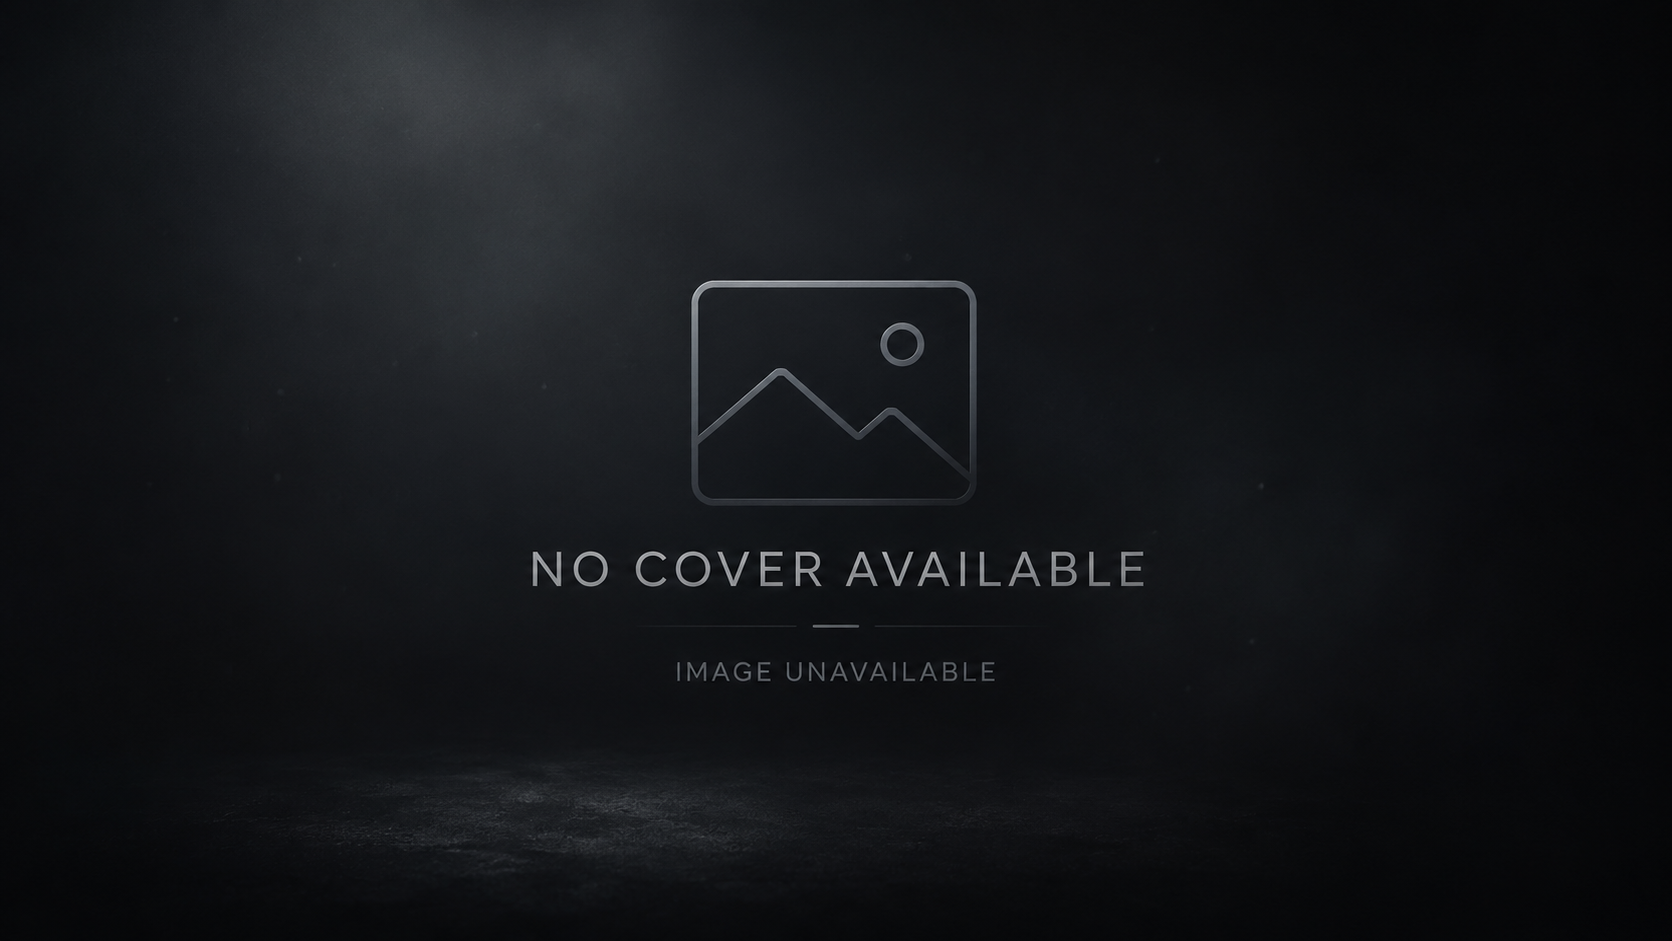
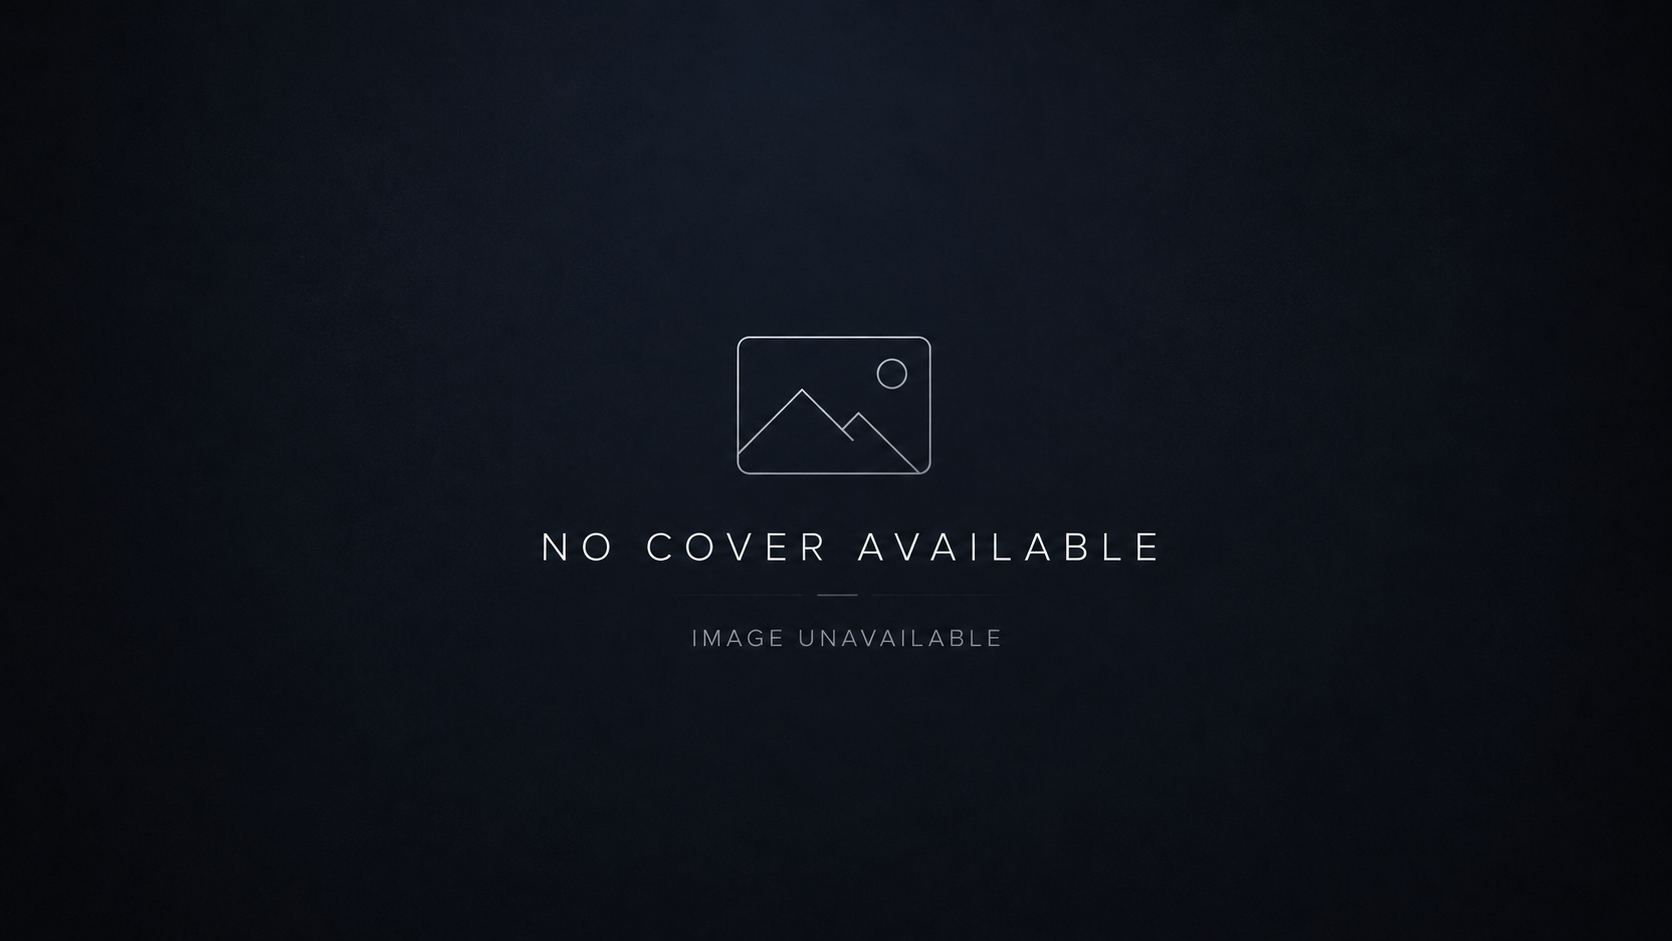
Some updates with the playlists page

diff --git a/frontend/src/app/playlists/features/playlists-entry/playlists-entry.me.ts b/frontend/src/app/playlists/features/playlists-entry/playlists-entry.me.ts
@@ -1,4 +1,12 @@
-import { Component, inject, input, InputSignal, ResourceRef } from '@angular/core';
+import {
+  Component,
+  computed,
+  inject,
+  input,
+  InputSignal,
+  ResourceRef,
+  Signal,
+} from '@angular/core';
 import {
   ImagesModel,
   MediaType,
@@ -10,25 +18,29 @@ import { MediaMovieService } from '@shared/services/media/media-movie.service';
 import { MediaTvSeriesService } from '@shared/services/media/media-tv-series-series.service';
 import { first, forkJoin, map, Observable } from 'rxjs';
 import { rxResource } from '@angular/core/rxjs-interop';
+import { NgOptimizedImage } from '@angular/common';
+import { environment } from '@environments/environment';
 
-type PlaylistItemWithImages = OfflinePlaylistContent & {
+type PlaylistItemWithImagesAndDetails = OfflinePlaylistContent & {
   images: ImagesModel;
 };
 
 @Component({
   selector: 'me-playlists-entry',
-  imports: [],
+  imports: [NgOptimizedImage],
   templateUrl: './playlists-entry.me.html',
   styleUrl: './playlists-entry.me.css',
 })
 export class PlaylistsEntryMe {
-  public readonly data: InputSignal<OfflinePlaylist> = input.required();
+  private readonly mediaMovieService: MediaMovieService = inject(MediaMovieService);
+  private readonly mediaTvSeriesService: MediaTvSeriesService = inject(MediaTvSeriesService);
 
-  protected readonly images: ResourceRef<PlaylistItemWithImages[]> = rxResource({
+  protected readonly images: ResourceRef<PlaylistItemWithImagesAndDetails[]> = rxResource({
     defaultValue: [],
-    params: (): OfflinePlaylistContent[] => this.data().items,
-    stream: (data): Observable<PlaylistItemWithImages[]> => {
+    params: (): OfflinePlaylistContent[] => this.playlist().items,
+    stream: (data): Observable<PlaylistItemWithImagesAndDetails[]> => {
       const requests$ = data.params
+        .slice(0, 4) // Limit to 4 items.
         .map((item) => {
           const trackId: number = parseInt(item.trackId, 10);
           const mediaType: SearchableMediaType = item.mediaType as SearchableMediaType;
@@ -40,21 +52,90 @@ export class PlaylistsEntryMe {
           return this.getMediaImages(trackId, mediaType).pipe(
             first(),
             map(
-              (images): PlaylistItemWithImages => ({
+              (images): PlaylistItemWithImagesAndDetails => ({
                 ...item,
                 images: images,
               }),
             ),
           );
         })
-        .filter((request): request is Observable<PlaylistItemWithImages> => request !== undefined);
+        .filter(
+          (request): request is Observable<PlaylistItemWithImagesAndDetails> =>
+            request !== undefined,
+        );
 
       return forkJoin(requests$);
     },
   });
+  protected readonly singleImage: Signal<string> = computed(() => {
+    return (
+      `${environment.tmdb.imageBaseUrl}original${this.images.value()?.[0]?.images?.posters?.[0]?.file_path}` ||
+      '/images/placeholder.png'
+    );
+  });
+  protected readonly fourImages: Signal<string[]> = computed(() => {
+    const posters: string[] = this.images.value()?.map((item) => {
+      if (item.images.posters.length > 0) {
+        return `${environment.tmdb.imageBaseUrl}original${item.images.posters[0].file_path}`;
+      }
+      return '/images/placeholder.png';
+    });
 
-  private readonly mediaMovieService: MediaMovieService = inject(MediaMovieService);
-  private readonly mediaTvSeriesService: MediaTvSeriesService = inject(MediaTvSeriesService);
+    // Ensure we always return an array of 4 images, filling in placeholders as needed.
+    const filledPosters: string[] = posters ? [...posters] : [];
+    while (filledPosters.length < 4) {
+      filledPosters.push('/images/placeholder.png');
+    }
+
+    return filledPosters.slice(0, 4);
+  });
+  protected readonly lastModificationLabel: Signal<string> = computed(() => {
+    const timestamp = this.playlist().lastEditTimestamp;
+    const parsedTime = Date.parse(timestamp);
+
+    // Fallback in case the timestamp is invalid or missing
+    if (isNaN(parsedTime)) {
+      return 'Unknown';
+    }
+
+    const editDate = new Date(parsedTime);
+    const today = new Date();
+
+    editDate.setHours(0, 0, 0, 0);
+    today.setHours(0, 0, 0, 0);
+
+    const diffInMs = today.getTime() - editDate.getTime();
+    const diffInDays = Math.round(diffInMs / (1000 * 60 * 60 * 24));
+
+    if (diffInDays === 0) {
+      return 'Today';
+    }
+
+    if (diffInDays === 1) {
+      return 'Yesterday';
+    }
+
+    if (diffInDays > 1 && diffInDays <= 5) {
+      return `${diffInDays} Days Ago`;
+    }
+
+    return 'Long time ago';
+  });
+  protected readonly itemsCountLabel: Signal<string> = computed(() => {
+    const count: number = this.playlist().items.length;
+
+    if (count === 0) {
+      return 'Empty';
+    }
+
+    if (count > 100) {
+      return '100+ Items';
+    }
+
+    return `${count} Item${count > 1 ? 's' : ''}`;
+  });
+
+  public readonly playlist: InputSignal<OfflinePlaylist> = input.required();
 
   private getMediaImages(trackId: number, mediaType: SearchableMediaType): Observable<ImagesModel> {
     switch (mediaType) {

diff --git a/frontend/src/app/playlists/features/playlists-entry/playlists-entry.me.html b/frontend/src/app/playlists/features/playlists-entry/playlists-entry.me.html
@@ -1,10 +1,38 @@
-<div class="playlists-entry">
-  <div class="playlists-entry__images">
-
+<div class="playlists-entry w-full h-full">
+  <div
+    class="playlists-entry__images aspect-square rounded-lg overflow-hidden border-2 border-card brightness-90">
+    @let imagesToUse = images.value();
+    @if (imagesToUse.length === 0) {
+      <div class="playlist-entry__image w-full h-full relative">
+        <img
+          ngSrc="/images/placeholder-empty-playlist.png" class="object-cover" alt="Cover Image"
+          loading="lazy"
+          fill>
+      </div>
+    } @else if (imagesToUse.length >= 1 && imagesToUse.length <= 3) {
+      <div class="playlist-entry__image w-full h-full relative">
+        <img [ngSrc]="singleImage()" class="object-cover" alt="Cover Image" loading="lazy" fill>
+      </div>
+    } @else {
+      <div class="playlist-entry__images-grid grid grid-cols-2 grid-rows-2 w-full h-full">
+        @for (image of fourImages(); track image) {
+          <div class="playlist-entry__image w-full h-full relative">
+            <img [ngSrc]="image" class="object-cover" alt="Cover Image" loading="lazy" fill>
+          </div>
+        }
+      </div>
+    }
   </div>
-  <div class="playlists-entry__info">
-    @let playlist = data();
-    <h2 class="font-bold">{{ playlist.name }}</h2>
+  <div class="playlists-entry__info flex flex-col gap-4">
 
+    <div class="playlists-entry__info__details">
+      <h2 class="font-bold text-lg">{{ playlist().name }}</h2>
+      <div
+        class="playlists-entry__info__details__meta flex flex-rot gap-1 items-center text-sm text-accent-foreground">
+        <span class="text-amber-300 text-xs">{{ itemsCountLabel() }} </span>
+        <span class="shrink-0 font-thin">&middot;</span>
+        <span class="font-thin text-xs">Updated {{ lastModificationLabel() }}</span>
+      </div>
+    </div>
   </div>
 </div>

diff --git a/frontend/src/app/playlists/playlists.me.ts b/frontend/src/app/playlists/playlists.me.ts
@@ -1,9 +1,17 @@
-import { Component } from '@angular/core';
+import { Component, inject, Signal } from '@angular/core';
+import { UserLocalPlaylistService } from '@shared/services/user/user-local-playlist.service';
+import { OfflinePlaylist } from '@shared/models';
+import { PlaylistsEntryMe } from '@playlists/features/playlists-entry/playlists-entry.me';
 
 @Component({
   selector: 'me-playlists',
-  imports: [],
+  imports: [PlaylistsEntryMe],
   templateUrl: './playlists.me.html',
   styleUrl: './playlists.me.css',
 })
-export class PlaylistsMe {}
+export class PlaylistsMe {
+  private readonly userLocalPlaylistService: UserLocalPlaylistService =
+    inject(UserLocalPlaylistService);
+
+  protected readonly playlists: Signal<OfflinePlaylist[]> = this.userLocalPlaylistService.playlists;
+}

diff --git a/frontend/src/app/playlists/playlists.me.html b/frontend/src/app/playlists/playlists.me.html
@@ -1,5 +1,5 @@
 <section class="playlists mt-[80px] w-full flex flex-col justify-center items-center">
-  <div class="playlists-content-wrapper w-[95%] max-w-[1750px]">
+  <div class="playlists-content-wrapper w-[95%] max-w-[1750px] flex flex-col gap-8">
 
     <div class="playlists-content__header flex flex-col gap-2">
       <h1 class="text-5xl font-black tracking-tight">Your Playlists</h1>
@@ -8,7 +8,15 @@
         personal media vault, organized neatly in a single place</p>
     </div>
 
-    <div class="playlists-content__body">
+    <div
+      class="playlists-content__body grid
+      grid-cols-[repeat(auto-fill,minmax(175px,1fr))]
+      min-[582px]:grid-cols-[repeat(auto-fill,minmax(225px,1fr))]
+      min-[991px]:grid-cols-[repeat(auto-fill,minmax(250px,1fr))]
+      gap-4 w-full">
+      @for (playlist of playlists(); track playlist.id) {
+        <me-playlists-entry [playlist]="playlist" />
+      }
     </div>
 
   </div>